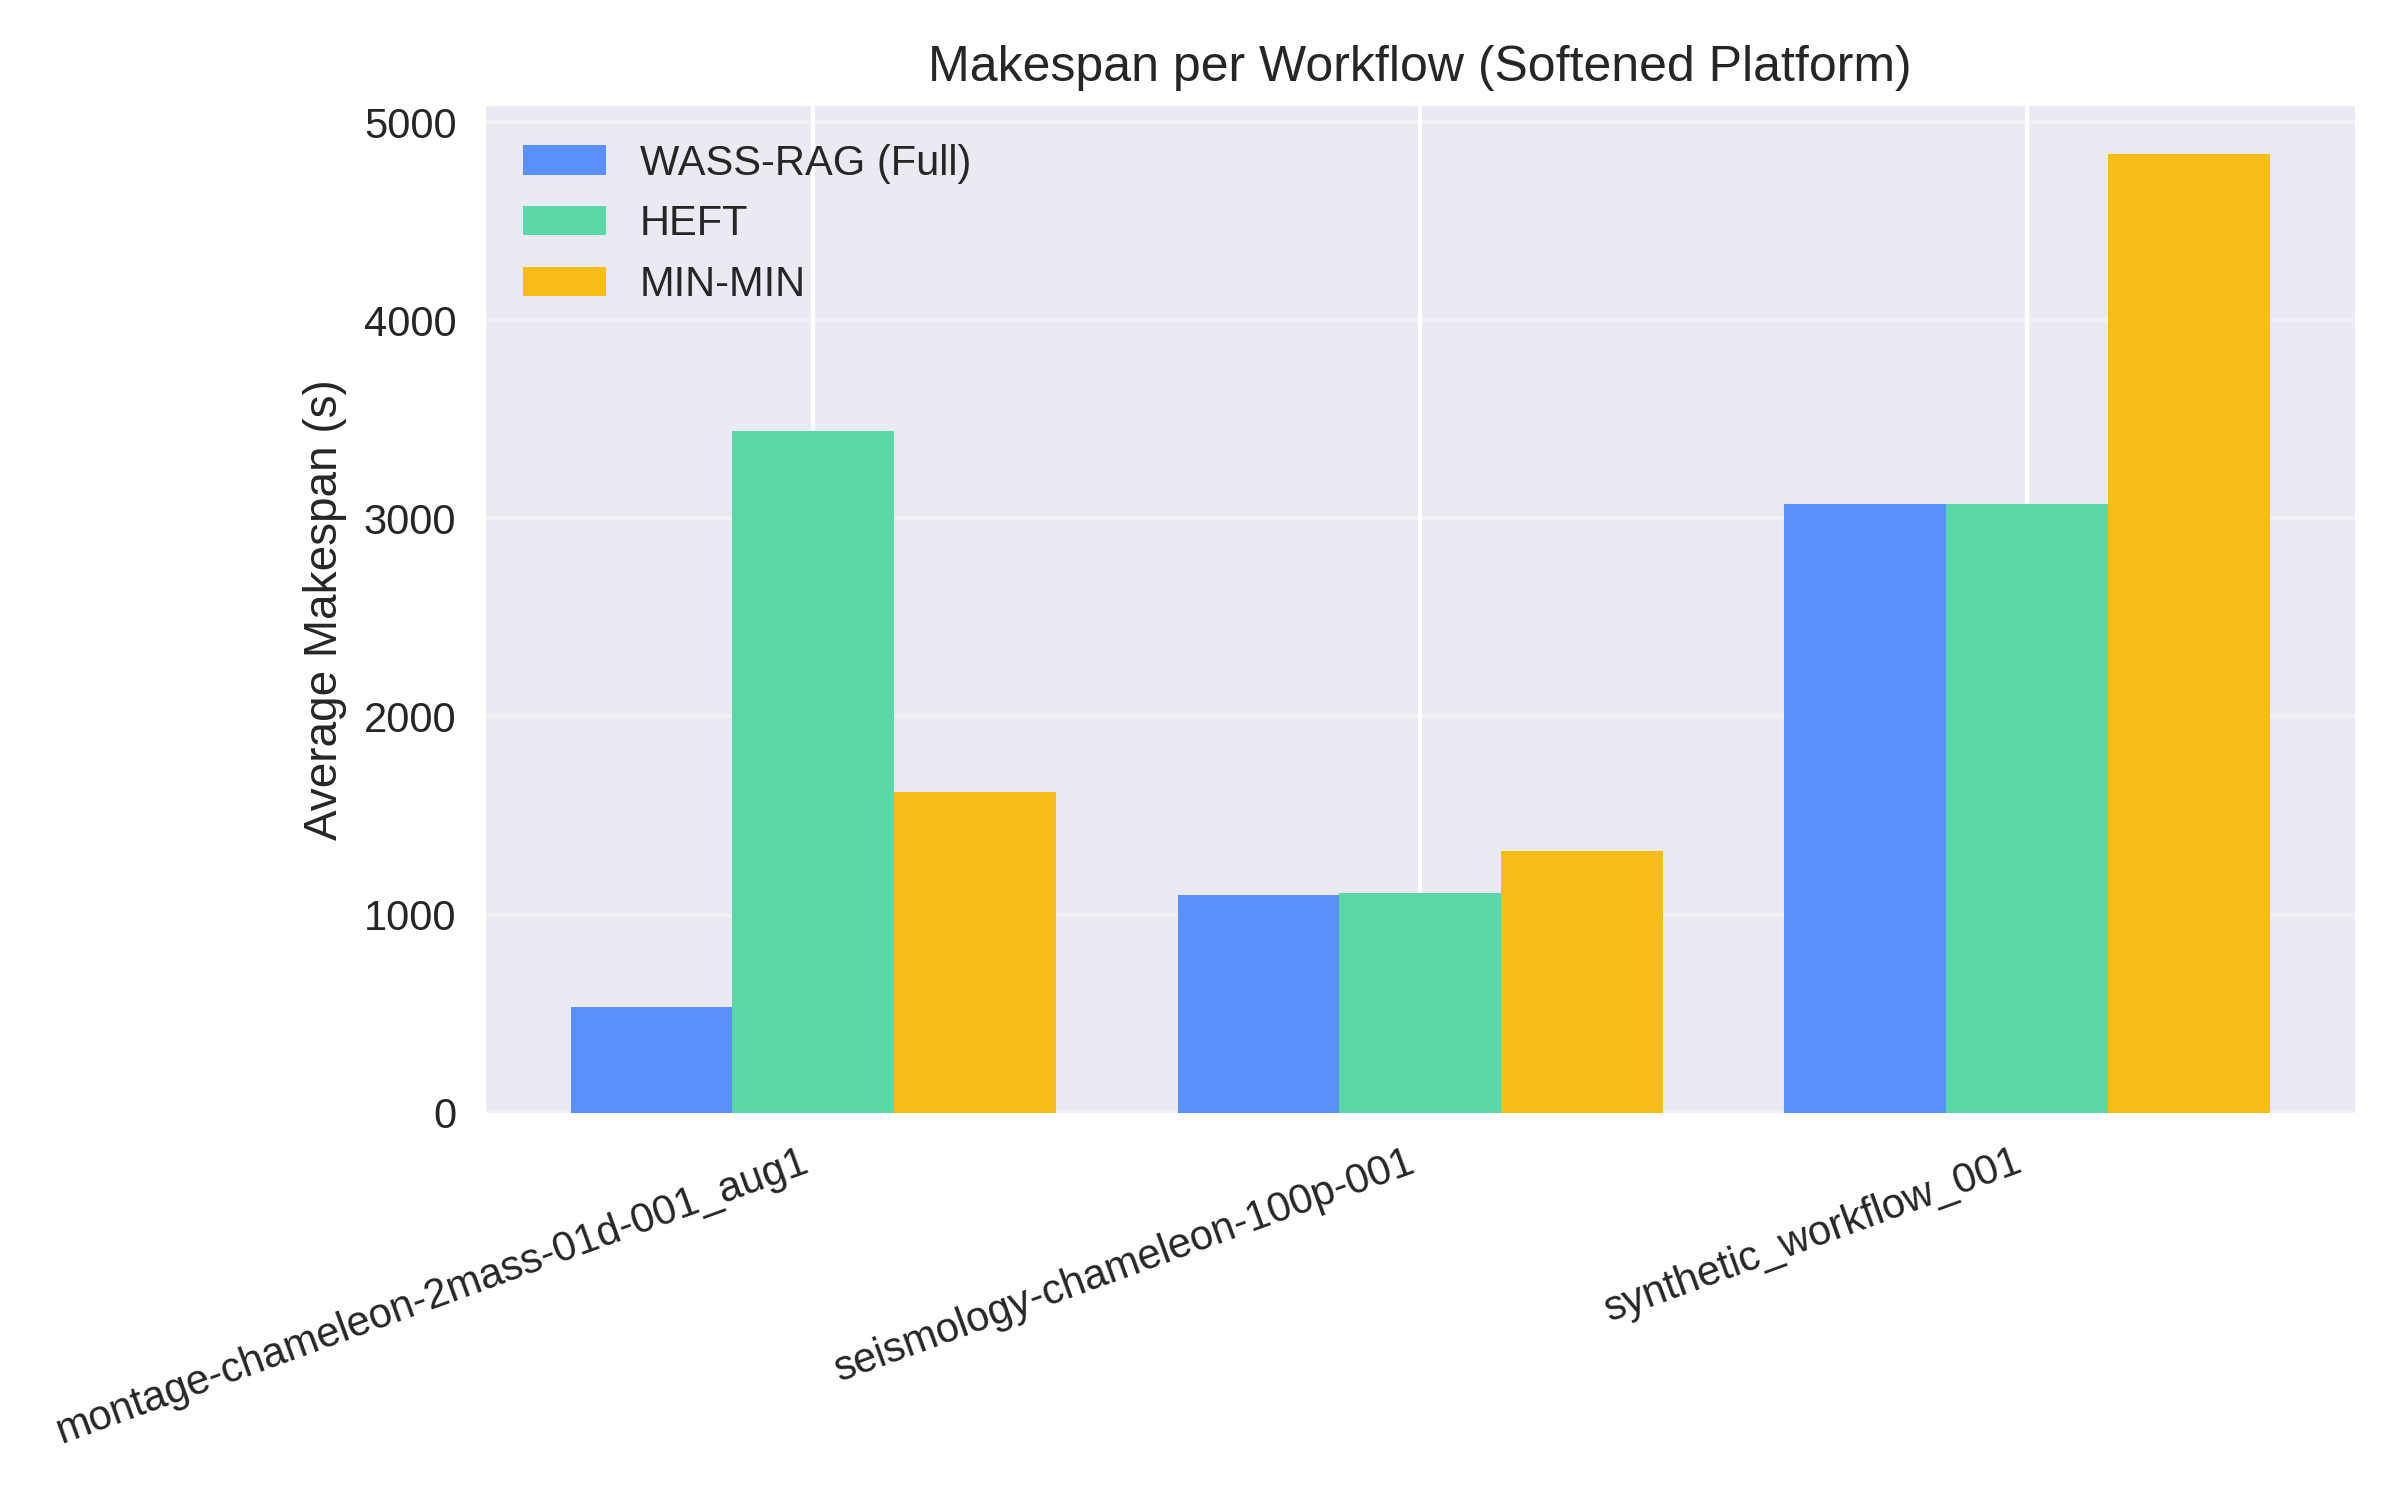
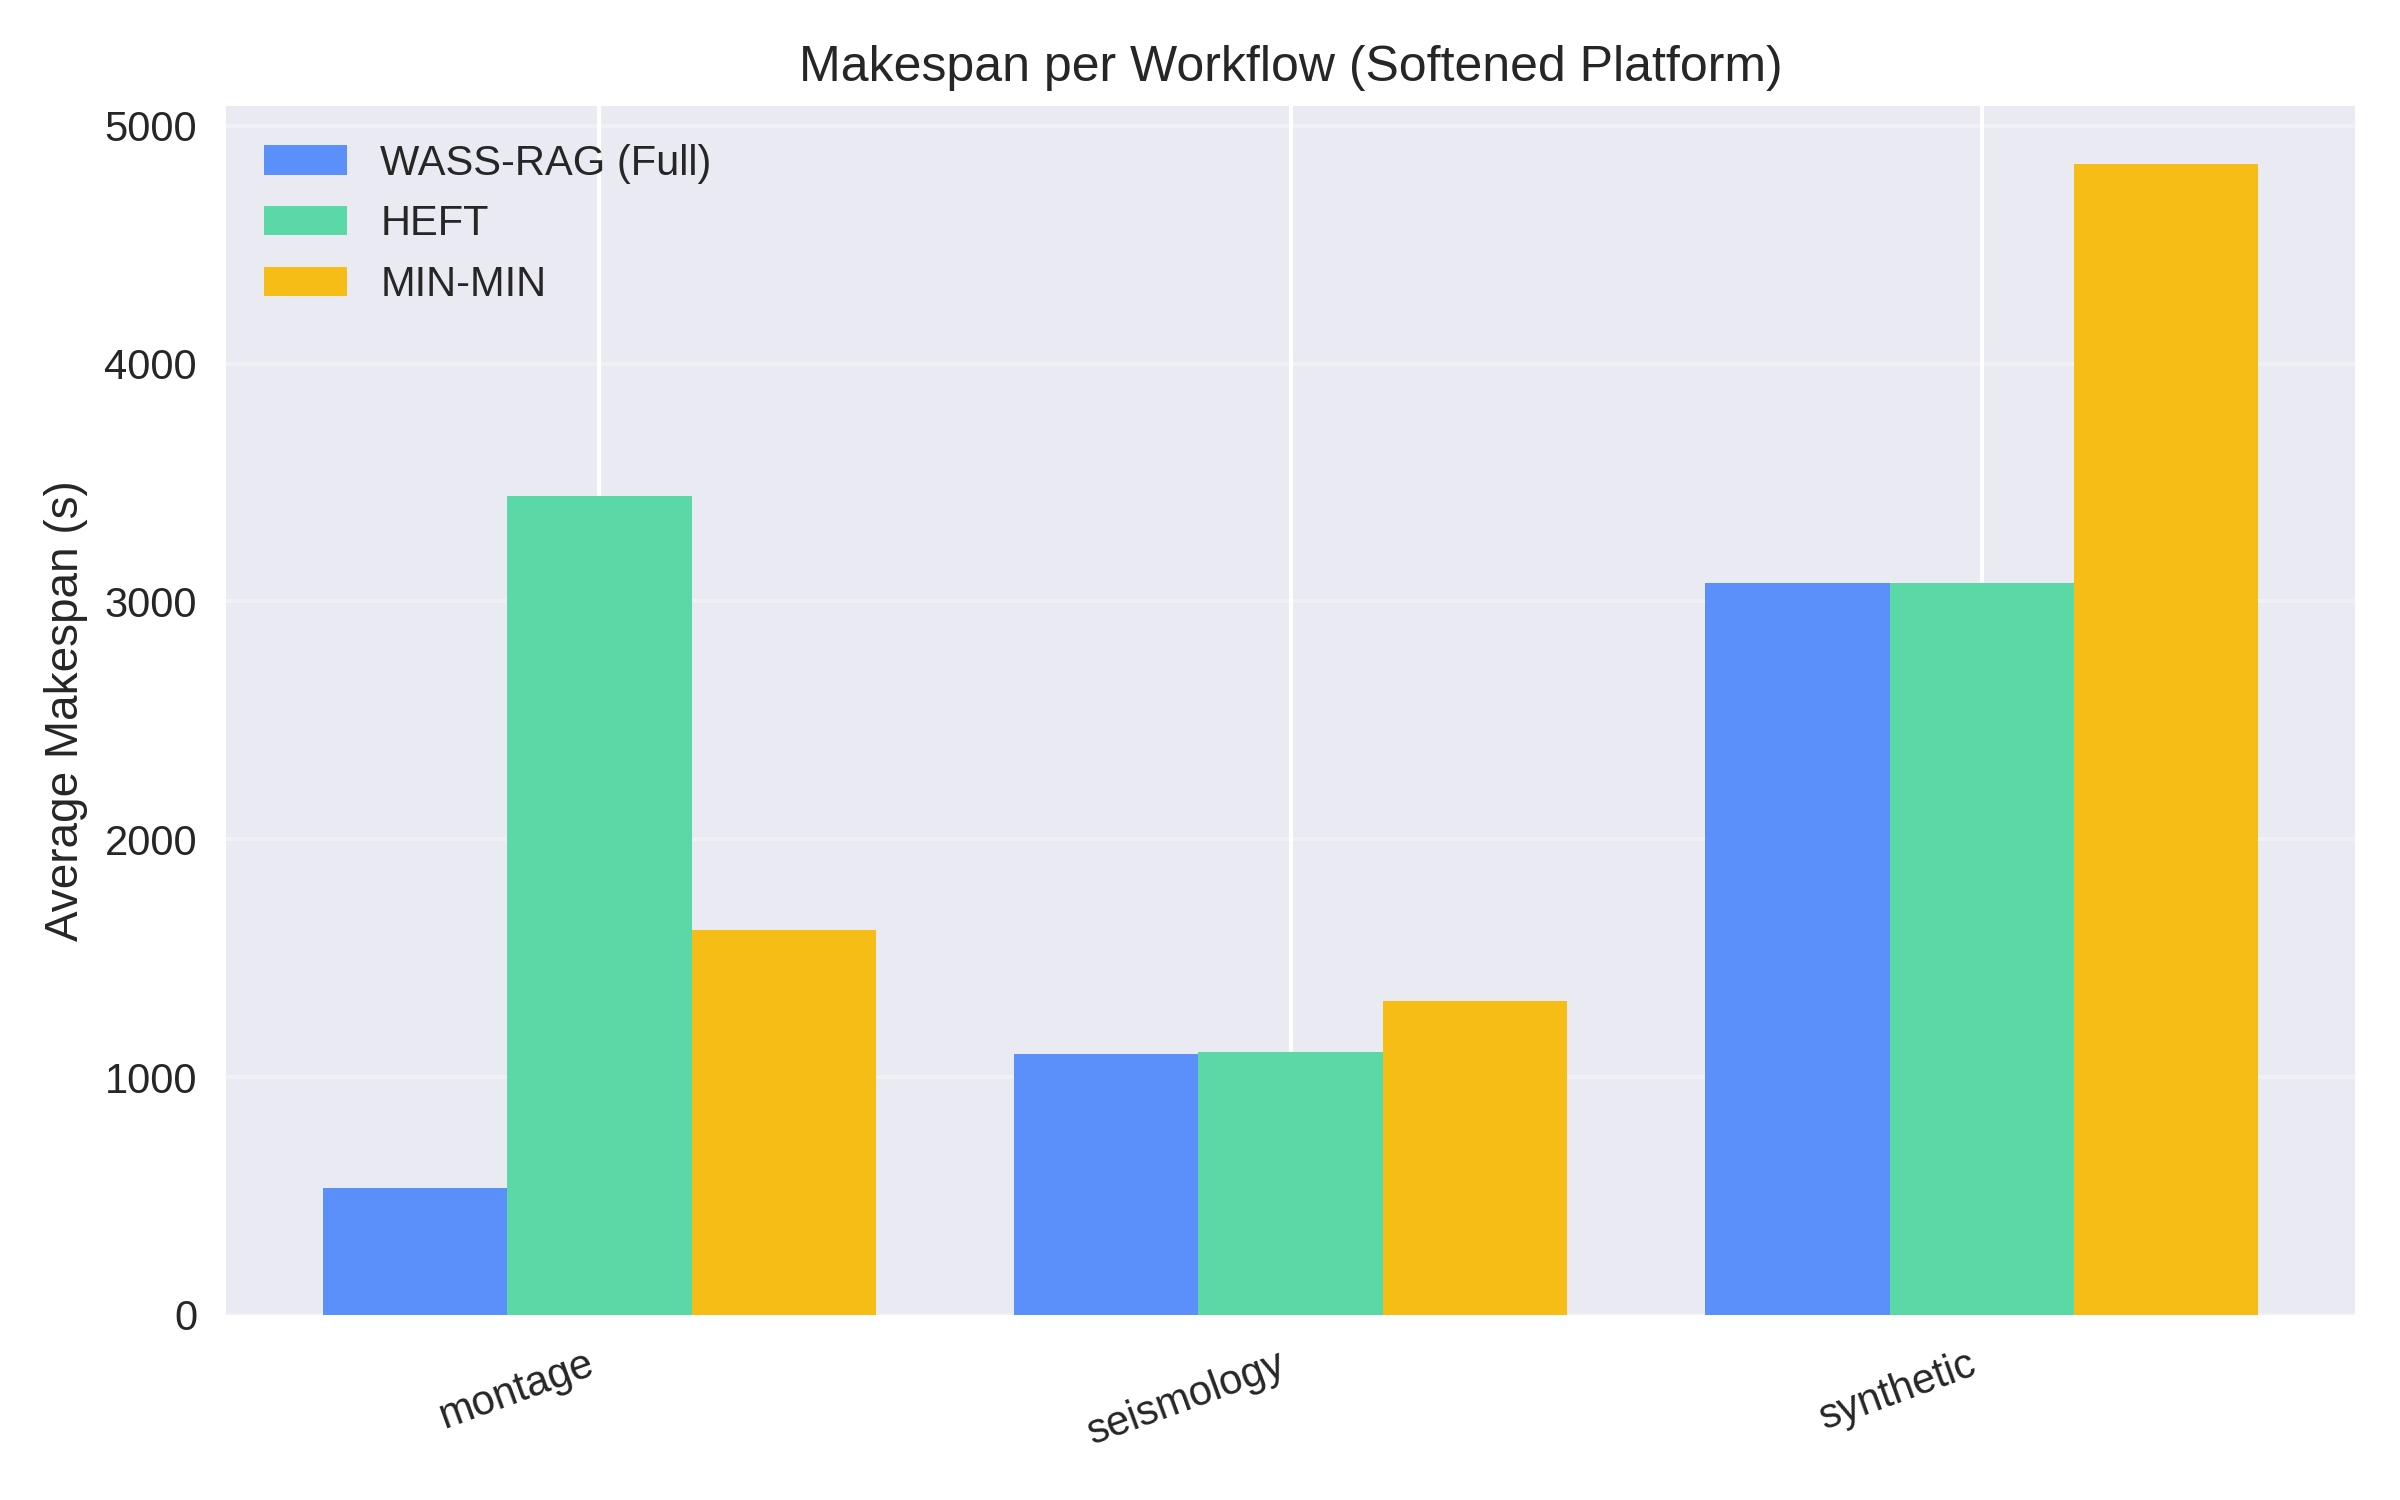
feat: update

diff --git a/paper/redo_experiments/experiment_notes.md b/paper/redo_experiments/experiment_notes.md
@@ -49,7 +49,165 @@ Reduce the extreme network/disk heterogeneity and rerun the three-workflow compa
   - Seismology: WASS-RAG `1099` vs HEFT `1106` (~0.6% faster) vs MIN-MIN `1319` (20% slower).
   - Synthetic: WASS-RAG `3075` ≈ HEFT `3075` (tie), both outperform MIN-MIN `4841`.
 - Inference logs confirm the policy still concentrates placement on `cpu_host_ultra`, suggesting further host-order experimentation if diversification is desired.
-- Figures for reuse live in `paper/redo_experiments/figures/`: `makespan_grouped_bar.png`, `makespan_grouped_bar_log.png`, `makespan_summary_table.png`, `relative_makespan_heatmap.png`, `relative_makespan_ratio.png`, `wass_rag_relative_gain.png`, `wass_vs_baselines_scatter.png`, `wass_vs_wassrag_bar.png`, plus the overview set (`overall_makespan_softened.png`, `makespan_by_workflow_softened.png`, `makespan_boxplot_softened.png`).
+- Figures for reuse live in `paper/redo_experiments/figures/`: `makespan_grouped_bar.png`, `makespan_grouped_bar_log.png`, `makespan_summary_table.png`, `relative_makespan_heatmap.png`, `relative_makespan_ratio.png`, `wass_rag_relative_gain.png`, `wass_vs_baselines_scatter.png`, `wass_vs_wassrag_bar.png`, plus the overview set (`overall_makespan_softened.png`, `makespan_by_workflow_softened.png`, `makespan_boxplot_softened.png`). Axis labels use the short names `montage`, `seismology`, and `synthetic`.
+
+## Figure Generation Script
+```python
+from pathlib import Path
+
+import numpy as np
+import pandas as pd
+import matplotlib.pyplot as plt
+import seaborn as sns
+
+RESULTS_CSV = Path("paper/redo_experiments/results/detailed_results.csv")
+FIG_DIR = Path("paper/redo_experiments/figures")
+FIG_DIR.mkdir(parents=True, exist_ok=True)
+
+plt.style.use("seaborn-v0_8")
+
+results = pd.read_csv(RESULTS_CSV)
+if "status" in results.columns:
+  results = results[results["status"].eq("success")].copy()
+
+summary = results.groupby(["workflow", "scheduler"])["makespan"].agg(["mean", "std", "count"]).reset_index()
+
+def simplify_label(workflow_path: str) -> str:
+  stem = Path(workflow_path).stem.lower()
+  if "montage" in stem:
+    return "montage"
+  if "seismology" in stem:
+    return "seismology"
+  if "synthetic" in stem:
+    return "synthetic"
+  return stem
+
+summary["workflow_label"] = summary["workflow"].map(simplify_label)
+
+mean_pivot = summary.pivot(index="workflow_label", columns="scheduler", values="mean")
+std_pivot = summary.pivot(index="workflow_label", columns="scheduler", values="std").fillna(0.0)
+
+ordered_sched = ["WASS-RAG (Full)", "HEFT", "MIN-MIN"]
+workflow_order = ["montage", "seismology", "synthetic"]
+
+mean_pivot = mean_pivot[ordered_sched].reindex(workflow_order)
+std_pivot = std_pivot[ordered_sched].reindex(workflow_order)
+
+bar_width = 0.8 / len(ordered_sched)
+indices = np.arange(len(mean_pivot))
+colors = ["#5B8FF9", "#5AD8A6", "#F6BD16"]
+
+# Linear grouped bar
+fig, ax = plt.subplots(figsize=(8, 5))
+for i, sched in enumerate(ordered_sched):
+  ax.bar(indices + i * bar_width, mean_pivot[sched], bar_width, label=sched, color=colors[i], yerr=std_pivot[sched], capsize=5)
+ax.set_xticks(indices + bar_width)
+ax.set_xticklabels(mean_pivot.index, rotation=20, ha="right")
+ax.set_ylabel("Average Makespan (s)")
+ax.set_title("Makespan per Workflow (Softened Platform)")
+ax.grid(axis="y", alpha=0.3)
+ax.legend(frameon=False)
+plt.tight_layout()
+fig.savefig(FIG_DIR / "makespan_grouped_bar.png", dpi=300)
+plt.close(fig)
+
+# Log grouped bar
+fig, ax = plt.subplots(figsize=(8, 5))
+for i, sched in enumerate(ordered_sched):
+  ax.bar(indices + i * bar_width, mean_pivot[sched], bar_width, label=sched, color=colors[i])
+ax.set_xticks(indices + bar_width)
+ax.set_xticklabels(mean_pivot.index, rotation=20, ha="right")
+ax.set_ylabel("Average Makespan (s, log scale)")
+ax.set_title("Makespan per Workflow (Log Scale)")
+ax.set_yscale("log")
+ax.grid(axis="y", alpha=0.3, which="both")
+ax.legend(frameon=False)
+plt.tight_layout()
+fig.savefig(FIG_DIR / "makespan_grouped_bar_log.png", dpi=300)
+plt.close(fig)
+
+# Summary table
+fig, ax = plt.subplots(figsize=(6, 1 + 0.4 * len(mean_pivot)))
+ax.axis("off")
+table_data = []
+for wf in mean_pivot.index:
+  for sched in ordered_sched:
+    mean_val = mean_pivot.loc[wf, sched]
+    std_val = std_pivot.loc[wf, sched]
+    table_data.append([wf, sched, f"{mean_val:.2f}", f"{std_val:.2f}"])
+table_df = pd.DataFrame(table_data, columns=["Workflow", "Scheduler", "Mean", "Std"])
+table = ax.table(cellText=table_df.values, colLabels=table_df.columns, loc="center", cellLoc="center")
+table.scale(1, 1.2)
+ax.set_title("Makespan Summary Statistics", pad=20)
+plt.tight_layout()
+fig.savefig(FIG_DIR / "makespan_summary_table.png", dpi=300)
+plt.close(fig)
+
+# Relative heatmap
+relative = mean_pivot.divide(mean_pivot["WASS-RAG (Full)"], axis=0)
+fig, ax = plt.subplots(figsize=(6, 4))
+sns.heatmap(relative, annot=True, fmt=".2f", cmap="RdYlGn_r", cbar_kws={"label": "Ratio vs WASS-RAG"}, ax=ax)
+ax.set_title("Relative Makespan vs WASS-RAG")
+plt.tight_layout()
+fig.savefig(FIG_DIR / "relative_makespan_heatmap.png", dpi=300)
+plt.close(fig)
+
+# Relative ratio bars
+relative_melt = relative.reset_index().melt(id_vars="workflow_label", var_name="scheduler", value_name="ratio")
+fig, ax = plt.subplots(figsize=(7, 4))
+sns.barplot(data=relative_melt, x="workflow_label", y="ratio", hue="scheduler", palette=colors, ax=ax)
+ax.axhline(1.0, color="black", linestyle="--", linewidth=1)
+ax.set_ylabel("Makespan Ratio vs WASS-RAG")
+ax.set_title("Relative Makespan Ratios")
+ax.legend(frameon=False)
+plt.tight_layout()
+fig.savefig(FIG_DIR / "relative_makespan_ratio.png", dpi=300)
+plt.close(fig)
+
+# Relative gain vs best classical
+baseline_best = mean_pivot[["HEFT", "MIN-MIN"]].min(axis=1)
+relative_gain = (baseline_best - mean_pivot["WASS-RAG (Full)"]) / baseline_best * 100
+fig, ax = plt.subplots(figsize=(6, 4))
+ax.bar(mean_pivot.index, relative_gain, color="#FF9C6E")
+ax.set_ylabel("Relative Gain vs Best Classical (%)")
+ax.set_title("WASS-RAG Relative Improvement")
+ax.grid(axis="y", alpha=0.3)
+plt.tight_layout()
+fig.savefig(FIG_DIR / "wass_rag_relative_gain.png", dpi=300)
+plt.close(fig)
+
+# Scatter vs baselines
+fig, ax = plt.subplots(figsize=(5, 5))
+ax.scatter(mean_pivot["WASS-RAG (Full)"], mean_pivot["HEFT"], color="#5AD8A6", label="HEFT")
+ax.scatter(mean_pivot["WASS-RAG (Full)"], mean_pivot["MIN-MIN"], color="#F6BD16", label="MIN-MIN")
+lims = [0, 1.1 * mean_pivot.values.max()]
+ax.plot(lims, lims, color="black", linestyle="--", linewidth=1)
+ax.set_xlim(lims)
+ax.set_ylim(lims)
+ax.set_xlabel("WASS-RAG Makespan (s)")
+ax.set_ylabel("Baseline Makespan (s)")
+ax.set_title("WASS-RAG vs Classical Baselines")
+ax.grid(alpha=0.3)
+ax.legend(frameon=False)
+plt.tight_layout()
+fig.savefig(FIG_DIR / "wass_vs_baselines_scatter.png", dpi=300)
+plt.close(fig)
+
+# Best classical vs WASS-RAG comparison
+comparison_df = pd.DataFrame({
+  "Workflow": mean_pivot.index,
+  "WASS-RAG (Full)": mean_pivot["WASS-RAG (Full)"],
+  "Best Classical": baseline_best,
+})
+fig, ax = plt.subplots(figsize=(6, 4))
+comparison_df.plot(x="Workflow", kind="bar", ax=ax, color=["#5B8FF9", "#5AD8A6"], rot=20)
+ax.set_ylabel("Average Makespan (s)")
+ax.set_title("WASS-RAG vs Best Classical Scheduler")
+ax.grid(axis="y", alpha=0.3)
+plt.tight_layout()
+fig.savefig(FIG_DIR / "wass_vs_wassrag_bar.png", dpi=300)
+plt.close(fig)
+```
 
 ## Verification Checklist
 - [x] Confirm modified XML is staged in git (for reproducibility of the new platform).
